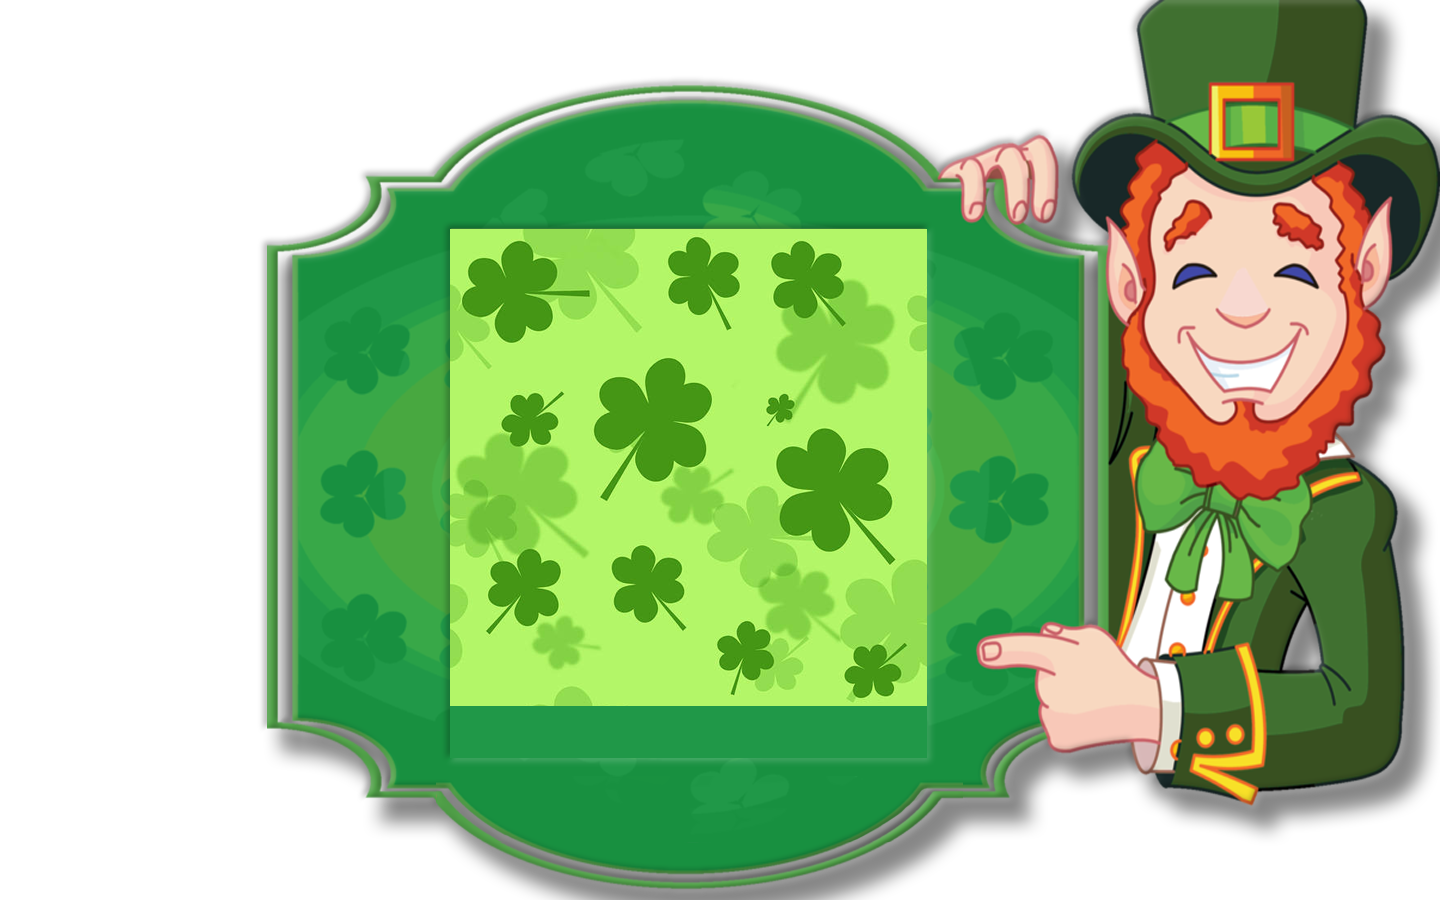
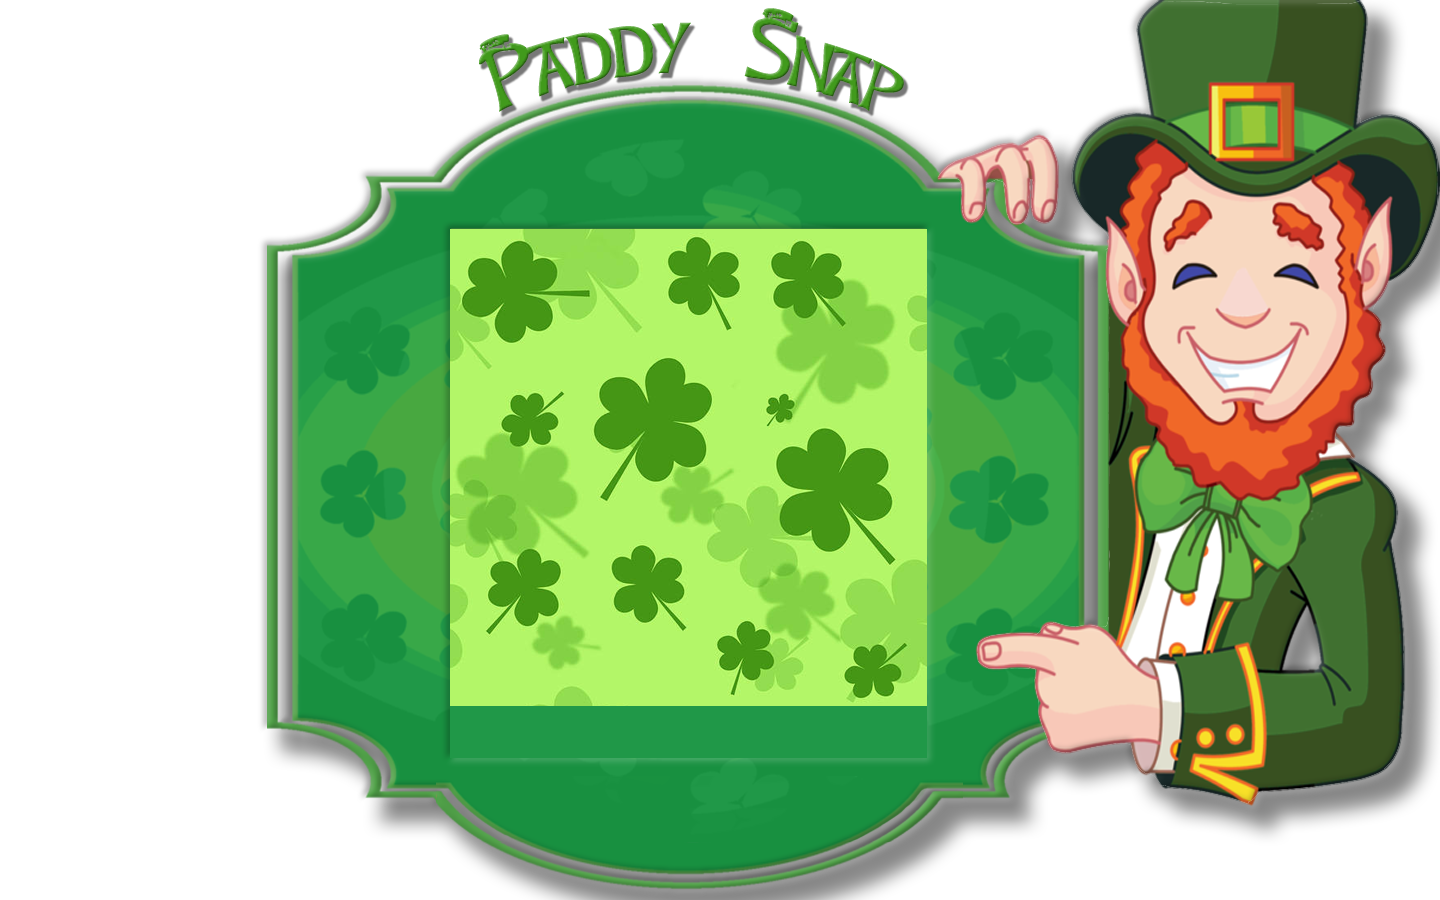
Upload new frames & edit readme

Changed region(s): [[0.3125, 0.0, 0.625, 0.1244]]

diff --git a/README.md b/README.md
@@ -1,7 +1,6 @@
-# ~ Paddy Snap ~
+# ~* PADDY SNAP *~
 
-<br>
-<div align="center"; display=flex;>
+<div align="center";>
 <img width="30%" src="https://starwarsanon.files.wordpress.com/2016/09/leprechaun-gold-pot-88489.gif" alt="St Patrick's Day gif"/>
 <img width="60%" src="static/img/run-reverse.gif" alt="St Patrick's Day gif"/>
 </div>
@@ -13,18 +12,18 @@ St. Patrick's Day themed app for the [Code Insititute](https://codeinstitute.net
 
 The app allows you to choose a variety of 'photobooth' backgrounds, take a photo with your webcam and share to various social media sites.
 
-### Built with:
+### Built with:-
 
 ![HTML](https://img.shields.io/static/v1?label=HTML&message=5&color=E34F26&style=for-the-badge&logo=html5)
 ![CSS](https://img.shields.io/static/v1?label=CSS&message=3&color=1572B6&style=for-the-badge&logo=css3)
 ![Javascript](https://img.shields.io/static/v1?label=JavaScript&message=ES8&style=for-the-badge&color=F7DF1E&logo=JavaScript)
 ![Python](https://img.shields.io/static/v1?label=Python&style=for-the-badge&message=3&color=3776AB&logo=PYTHON)
 
-### Framework:
+### Framework:-
 
 ![Django](https://img.shields.io/static/v1?label=Django&style=for-the-badge&message=3.1&color=092E20&logo=django)
 
-### Powered by:
+### Powered by:-
 
 [Stefan Dworschak](https://github.com/stefdworschak) | [John Traas](https://github.com/Jays-T) | [Jim Morel](https://github.com/JimLynx)
 
